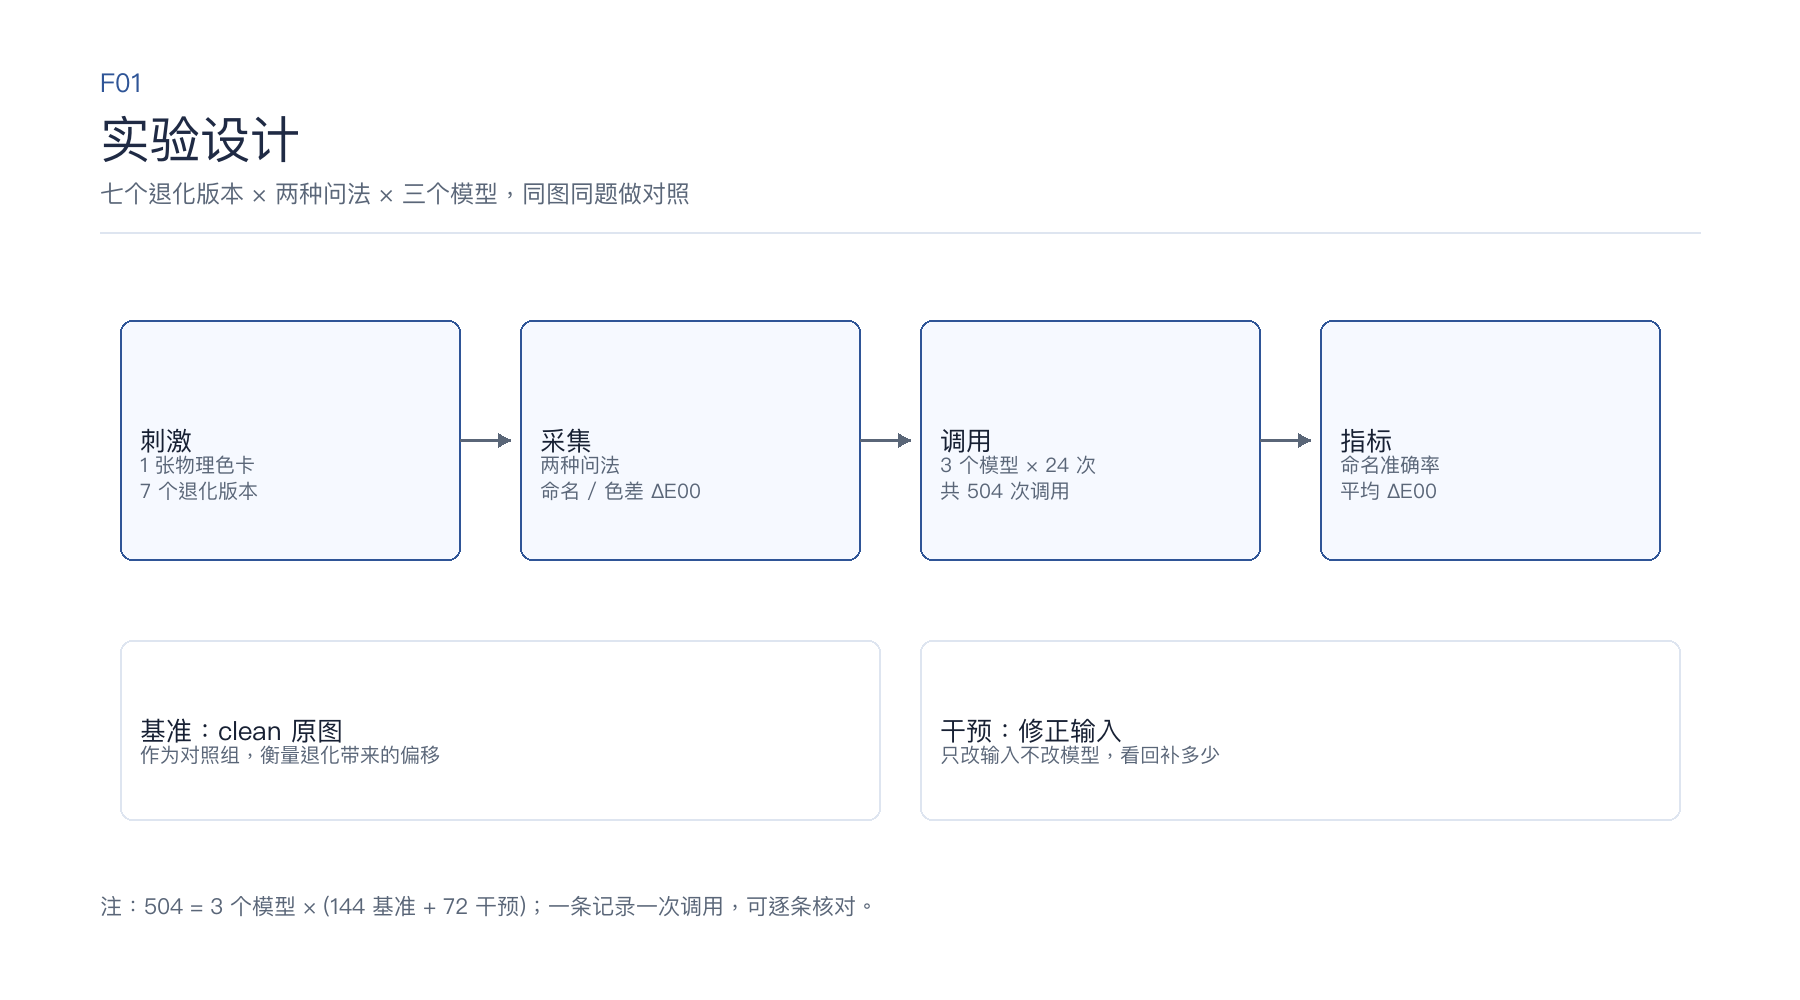
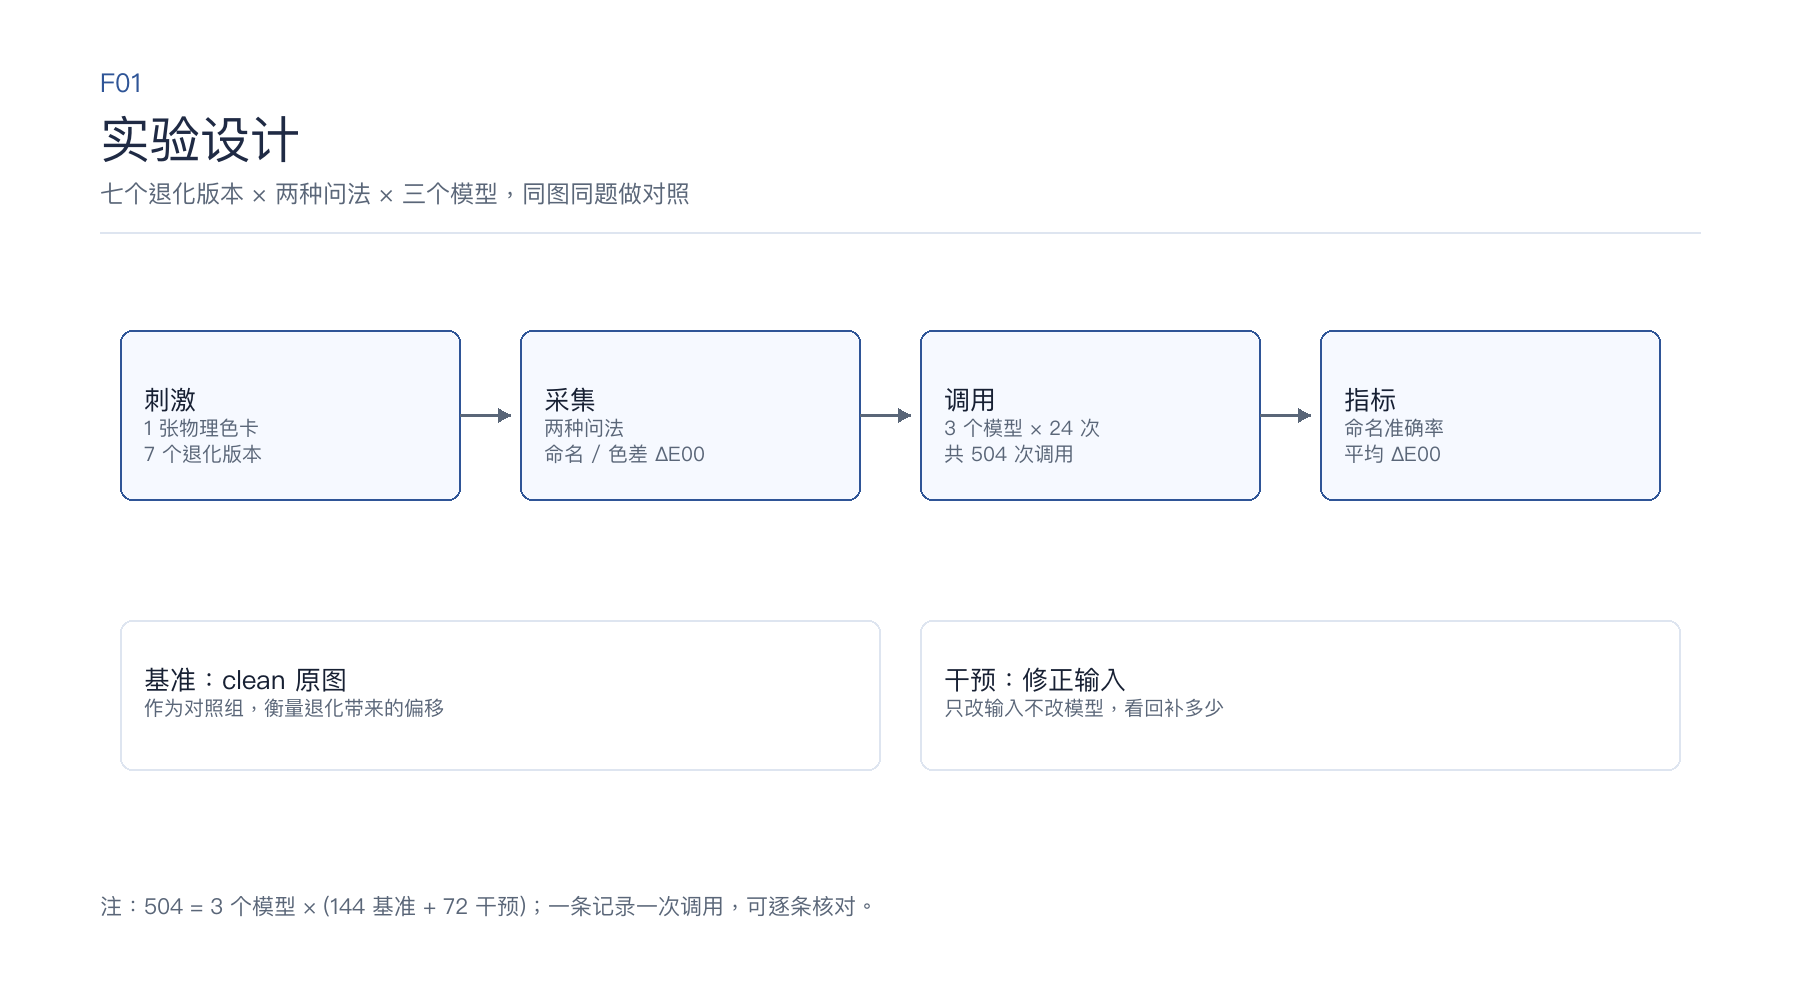
style: 调整 F01 版式（框高与文字居中）

diff --git a/04_构建脚本/render_figures.py b/04_构建脚本/render_figures.py
@@ -42,9 +42,9 @@ def header(d, w, num, title, subtitle):
 def box(d, xy, w, h, title, sub, fill="white", border=LINE, fg=INK):
     x, y = xy
     d.rounded_rectangle([x, y, x + w, y + h], radius=12, fill=fill, outline=border, width=2)
-    d.text((x + 20, y + h / 2 - 18), title, font=font(26, True), fill=fg)
+    d.text((x + 24, y + h / 2 - 34), title, font=font(26, True), fill=fg)
     if sub:
-        d.text((x + 20, y + h / 2 + 10), sub, font=font(20), fill=MUTED)
+        d.text((x + 24, y + h / 2 - 2), sub, font=font(20), fill=MUTED)
 
 
 def arrow(d, x1, y1, x2, y2, color=MUTED, width=3):
@@ -65,12 +65,12 @@ def fig_f01():
         ("指标", "命名准确率\n平均 ΔE00", 1320),
     ]
     for name, sub, x in stages:
-        box(d, (x, 320), 340, 240, name, sub, fill=SOFT, border=BLUE)
+        box(d, (x, 330), 340, 170, name, sub, fill=SOFT, border=BLUE)
     for i in range(3):
-        arrow(d, stages[i][2] + 340, 440, stages[i + 1][2] - 10, 440)
+        arrow(d, stages[i][2] + 340, 415, stages[i + 1][2] - 10, 415)
 
-    box(d, (120, 640), 760, 180, "基准：clean 原图", "作为对照组，衡量退化带来的偏移", fill="#FFFFFF")
-    box(d, (920, 640), 760, 180, "干预：修正输入", "只改输入不改模型，看回补多少", fill="#FFFFFF")
+    box(d, (120, 620), 760, 150, "基准：clean 原图", "作为对照组，衡量退化带来的偏移", fill="#FFFFFF")
+    box(d, (920, 620), 760, 150, "干预：修正输入", "只改输入不改模型，看回补多少", fill="#FFFFFF")
 
     d.text((100, 890), "注：504 = 3 个模型 × (144 基准 + 72 干预)；一条记录一次调用，可逐条核对。",
            font=font(22), fill=MUTED)
